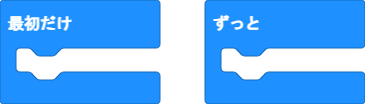
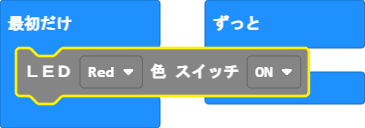
更新 main.blocks, main.ts, custom.ts

diff --git a/custom.ts b/custom.ts
@@ -5,7 +5,6 @@ enum onoff {
 
 enum LED_color {
     Red,
-    orange,
     yellow,
     green,
     water,
@@ -21,105 +20,101 @@ namespace natumi_blocks {
     export function eureka_fullcolor(color: LED_color, mode: onoff) {
         switch (color) {
             case LED_color.Red:
-                pins.digitalWritePin(DigitalPin.P0, 1);
+                pins.digitalWritePin(DigitalPin.P1, 0);
+                pins.digitalWritePin(DigitalPin.P15, 0);
+                pins.digitalWritePin(DigitalPin.P16, 1);
                 basic.pause(mode);
                 if (mode == 0) {
                     return
                 } else {
-                    pins.digitalWritePin(DigitalPin.P0, 0);
-                    pins.digitalWritePin(DigitalPin.P13, 0);
-                    pins.digitalWritePin(DigitalPin.P14, 0);
+                    pins.digitalWritePin(DigitalPin.P1, 0);
+                    pins.digitalWritePin(DigitalPin.P15, 0);
+                    pins.digitalWritePin(DigitalPin.P16, 0);
                     basic.pause(mode);
                     return
                 }
-            case LED_color.orange:
-                pins.digitalWritePin(DigitalPin.P0, 1);
-                pins.analogWritePin(AnalogPin.P13, 240)
-                basic.pause(mode);
-                if (mode == 0) {
-                    return
-                } else {
-                    pins.digitalWritePin(DigitalPin.P0, 0);
-                    pins.digitalWritePin(DigitalPin.P13, 0);
-                    pins.digitalWritePin(DigitalPin.P14, 0);
-                    basic.pause(mode);
-                    return
-                }
+
             case LED_color.yellow:
-                pins.digitalWritePin(DigitalPin.P0, 1);
-                pins.digitalWritePin(DigitalPin.P13, 1);
+                pins.digitalWritePin(DigitalPin.P1, 0);
+                pins.digitalWritePin(DigitalPin.P15, 1);
+                pins.digitalWritePin(DigitalPin.P16, 1);
                 basic.pause(mode);
                 if (mode == 0) {
                     return
                 } else {
-                    pins.digitalWritePin(DigitalPin.P0, 0);
-                    pins.digitalWritePin(DigitalPin.P13, 0);
-                    pins.digitalWritePin(DigitalPin.P14, 0);
+                    pins.digitalWritePin(DigitalPin.P1, 0);
+                    pins.digitalWritePin(DigitalPin.P15, 0);
+                    pins.digitalWritePin(DigitalPin.P16, 0);
                     basic.pause(mode);
                     return
                 }
             case LED_color.green:
-                pins.digitalWritePin(DigitalPin.P13, 1);
+                pins.digitalWritePin(DigitalPin.P1, 0);
+                pins.digitalWritePin(DigitalPin.P15, 1);
+                pins.digitalWritePin(DigitalPin.P16, 0);
                 basic.pause(mode);
                 if (mode == 0) {
                     return
                 } else {
-                    pins.digitalWritePin(DigitalPin.P0, 0);
-                    pins.digitalWritePin(DigitalPin.P13, 0);
-                    pins.digitalWritePin(DigitalPin.P14, 0);
+                    pins.digitalWritePin(DigitalPin.P1, 0);
+                    pins.digitalWritePin(DigitalPin.P15, 0);
+                    pins.digitalWritePin(DigitalPin.P16, 0);
                     basic.pause(mode);
                     return
                 }
             case LED_color.water:
-                pins.analogWritePin(AnalogPin.P0, 388)
-                pins.digitalWritePin(DigitalPin.P13, 1);
-                pins.analogWritePin(AnalogPin.P14, 767)
+                pins.digitalWritePin(DigitalPin.P1, 1);
+                pins.digitalWritePin(DigitalPin.P15, 1);
+                pins.digitalWritePin(DigitalPin.P16, 0);
                 basic.pause(mode);
                 if (mode == 0) {
                     return
                 } else {
-                    pins.digitalWritePin(DigitalPin.P0, 0);
-                    pins.digitalWritePin(DigitalPin.P13, 0);
-                    pins.digitalWritePin(DigitalPin.P14, 0);
+                    pins.digitalWritePin(DigitalPin.P1, 0);
+                    pins.digitalWritePin(DigitalPin.P15, 0);
+                    pins.digitalWritePin(DigitalPin.P16, 0);
                     basic.pause(mode);
                     return
                 }
             case LED_color.Blue:
-                pins.digitalWritePin(DigitalPin.P14, 1);
+                pins.digitalWritePin(DigitalPin.P1, 1);
+                pins.digitalWritePin(DigitalPin.P15, 0);
+                pins.digitalWritePin(DigitalPin.P16, 0);
                 basic.pause(mode);
                 if (mode == 0) {
                     return
                 } else {
-                    pins.digitalWritePin(DigitalPin.P0, 0);
-                    pins.digitalWritePin(DigitalPin.P13, 0);
-                    pins.digitalWritePin(DigitalPin.P14, 0);
+                    pins.digitalWritePin(DigitalPin.P1, 0);
+                    pins.digitalWritePin(DigitalPin.P15, 0);
+                    pins.digitalWritePin(DigitalPin.P16, 0);
                     basic.pause(mode);
                     return
                 }
             case LED_color.purple:
-                pins.analogWritePin(AnalogPin.P0, 338)
-                pins.digitalWritePin(DigitalPin.P14, 1);
+                pins.digitalWritePin(DigitalPin.P1, 1);
+                pins.digitalWritePin(DigitalPin.P15, 0);
+                pins.digitalWritePin(DigitalPin.P16, 1);
                 basic.pause(mode);
                 if (mode == 0) {
                     return
                 } else {
-                    pins.digitalWritePin(DigitalPin.P0, 0);
-                    pins.digitalWritePin(DigitalPin.P13, 0);
-                    pins.digitalWritePin(DigitalPin.P14, 0);
+                    pins.digitalWritePin(DigitalPin.P1, 0);
+                    pins.digitalWritePin(DigitalPin.P15, 0);
+                    pins.digitalWritePin(DigitalPin.P16, 0);
                     basic.pause(mode);
                     return
                 }
             case LED_color.white:
-                pins.digitalWritePin(DigitalPin.P0, 1);
-                pins.digitalWritePin(DigitalPin.P13, 1);
-                pins.digitalWritePin(DigitalPin.P14, 1);
+                pins.digitalWritePin(DigitalPin.P1, 1);
+                pins.digitalWritePin(DigitalPin.P15, 1);
+                pins.digitalWritePin(DigitalPin.P16, 1);
                 basic.pause(mode);
                 if (mode == 0) {
                     return
                 } else {
-                    pins.digitalWritePin(DigitalPin.P0, 0);
-                    pins.digitalWritePin(DigitalPin.P13, 0);
-                    pins.digitalWritePin(DigitalPin.P14, 0);
+                    pins.digitalWritePin(DigitalPin.P1, 0);
+                    pins.digitalWritePin(DigitalPin.P15, 0);
+                    pins.digitalWritePin(DigitalPin.P16, 0);
                     basic.pause(mode);
                     return
                 }

diff --git a/main.ts b/main.ts
@@ -1,3 +1,4 @@
+natumi_blocks.eureka_fullcolor(LED_color.Red, onoff.ON)
 basic.forever(function () {
 	
 })
